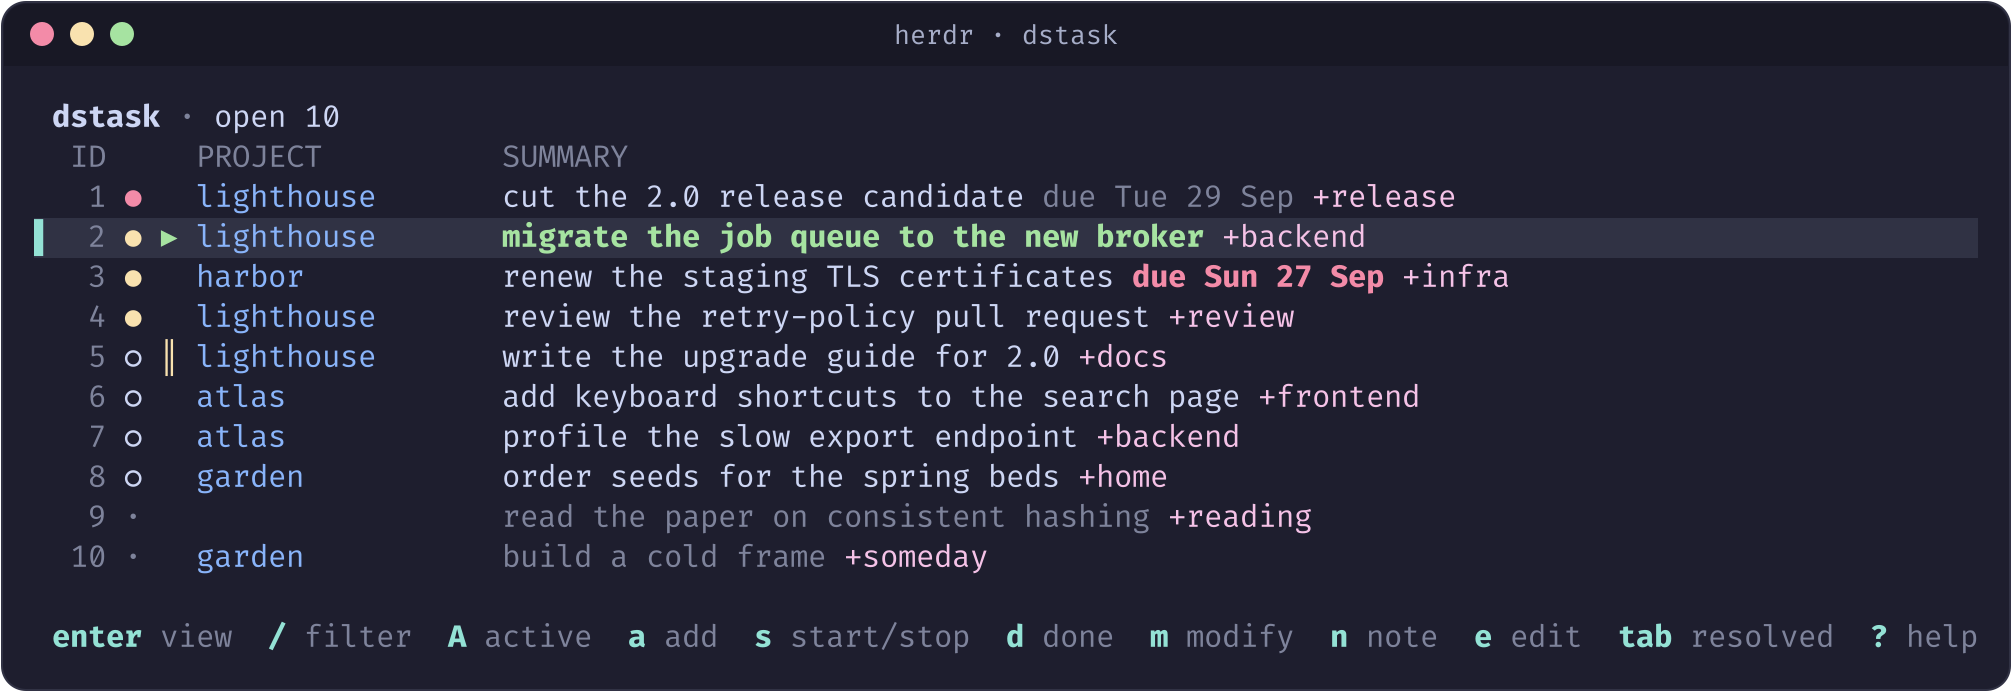
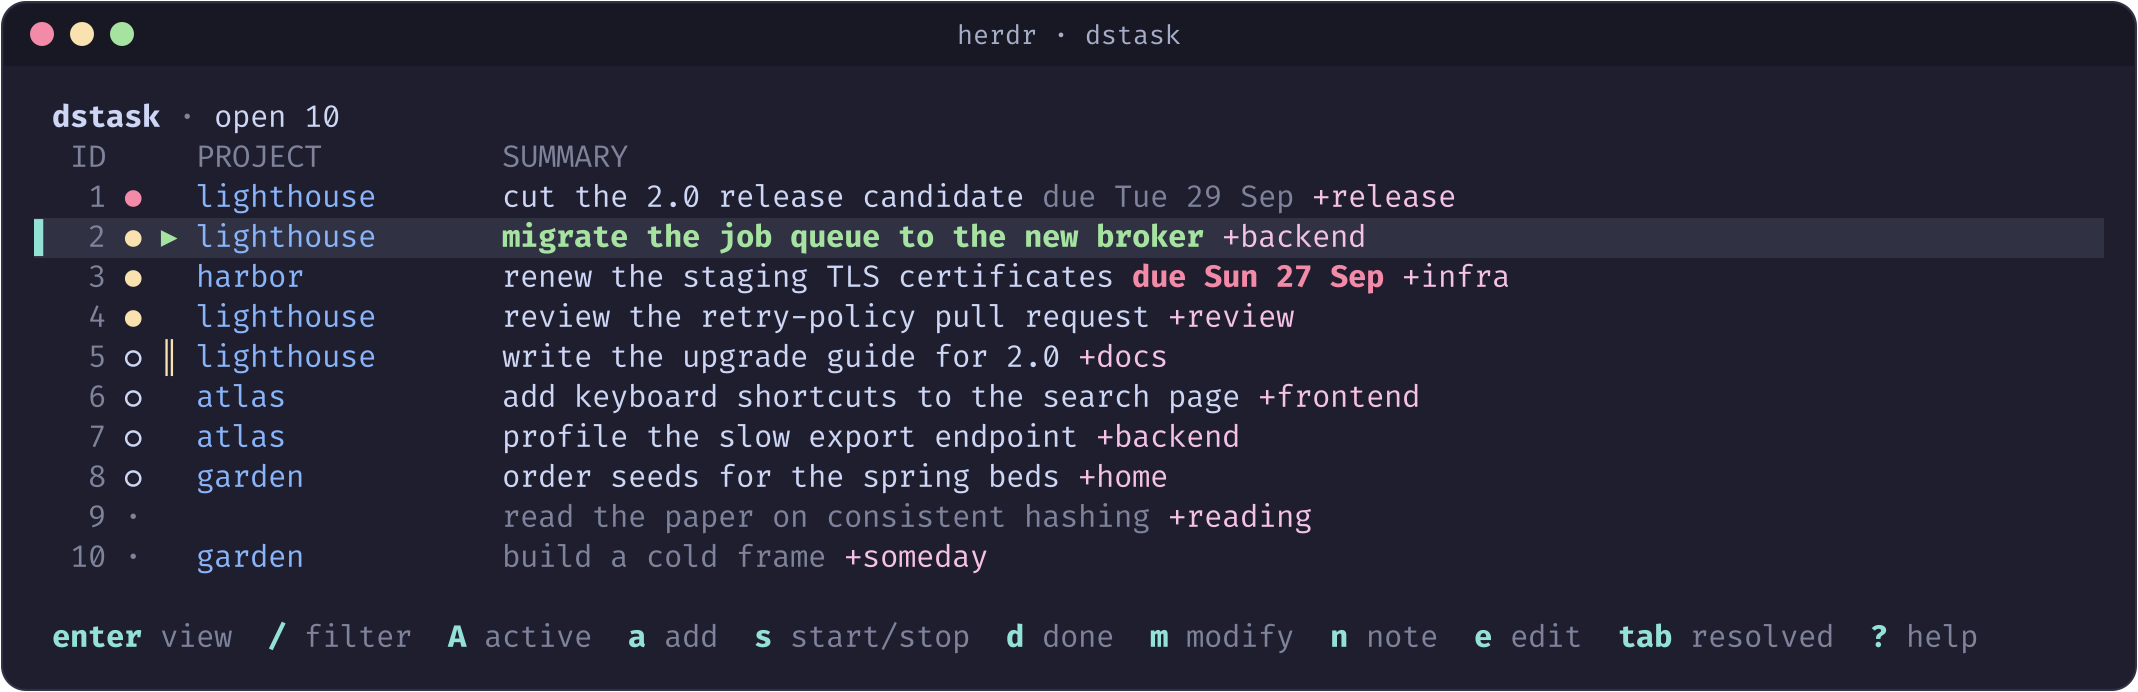
docs: add a screenshot of the detail view
make screenshot now also opens the active demo task and captures it as
docs/images/detail.png, which the README shows under the list. The demo
task has notes with a checklist, and both screenshots have the pane
width, so they have the same size.

Claude-Session: https://claude.ai/code/session_01A2mSsHRW8kFRtoxAN8xBux

diff --git a/scripts/screenshot.py b/scripts/screenshot.py
@@ -9,9 +9,12 @@ script only has to paint each cell at its grid position.
 ANSI palette colors are drawn with Catppuccin Mocha, Herdr's default theme,
 because the plugin uses palette indexes and the terminal theme decides them.
 
-Usage: screenshot.py <capture.ansi> <out-dir>
-Writes <out-dir>/screenshot.svg and <out-dir>/social-preview.svg. Convert them
-with rsvg-convert, as `make screenshot` does.
+Usage: screenshot.py <capture.ansi> <out-dir> <name> [--social] [--cols N]
+Writes <out-dir>/<name>.svg, and with --social also
+<out-dir>/social-preview.svg. Convert them with rsvg-convert, as
+`make screenshot` does. --cols sets the screen width. Pass the pane width, so
+that every image of one run has the same size; without it the width is the
+longest line.
 """
 
 import html
@@ -127,6 +130,12 @@ def terminal(rows, cols, x0, y0):
     """The SVG elements that paint the rows inside a window at x0, y0."""
     out = []
     for r, cells in enumerate(rows):
+        # The capture comes back a few cells short of the pane on a row that
+        # ends in colored blanks, but the UI writes the selection background
+        # across the full width (a UI test asserts it). Extend such a row, so
+        # the highlight reaches the edge as it does on screen.
+        if cells and cells[-1][2] and cells[-1][0] == " ":
+            cells = cells + [cells[-1]] * (cols - len(cells))
         y = y0 + r * CELL_H
         # Backgrounds first, in runs, so the text sits on top.
         c = 0
@@ -188,15 +197,21 @@ def svg(width, height, body, bg=None):
 
 
 def main():
-    capture, out = sys.argv[1], sys.argv[2]
+    capture, out, name = sys.argv[1], sys.argv[2], sys.argv[3]
+    flags = sys.argv[4:]
+    social = "--social" in flags
     with open(capture, encoding="utf-8") as f:
         rows = crop([parse(line.rstrip("\n")) for line in f])
     cols = max(len("".join(c[0] for c in r).rstrip()) for r in rows)
+    if "--cols" in flags:
+        cols = int(flags[flags.index("--cols") + 1])
 
-    # The README screenshot: the window alone on a transparent canvas.
+    # A README screenshot: the window alone on a transparent canvas.
     parts, w, h = window(rows, cols, 1, 1, "herdr · dstask")
-    with open(out + "/screenshot.svg", "w", encoding="utf-8") as f:
+    with open(out + "/" + name + ".svg", "w", encoding="utf-8") as f:
         f.write(svg(int(w) + 2, int(h) + 2, parts))
+    if not social:
+        return
 
     # The social preview: GitHub's 1280x640, with the name above the window.
     W, H = 1280, 640

diff --git a/tools/demofixture/main.go b/tools/demofixture/main.go
@@ -12,6 +12,7 @@ import (
 	"fmt"
 	"os"
 	"os/exec"
+	"strings"
 
 	"github.com/cgardner/herdr-dstask/internal/store"
 )
@@ -55,7 +56,16 @@ func main() {
 	fail(s.Start(2))
 	fail(s.Start(5))
 	fail(s.Stop(5))
-	fail(s.Note(2, "Drain the old queue before the cut-over, then flip the feature flag."))
+	// Notes for the detail screenshot: prose and a checklist, as real notes
+	// often have.
+	fail(s.Note(2, strings.Join([]string{
+		"Drain the old queue before the cut-over, then flip the feature flag.",
+		"",
+		"- [x] mirror traffic to the new broker",
+		"- [x] compare delivery latency for a week",
+		"- [ ] drain the old queue",
+		"- [ ] remove the old client library",
+	}, "\n")))
 }
 
 func fail(err error) {

diff --git a/README.md b/README.md
@@ -11,6 +11,8 @@ CLI uses.
 
 ![The task list, showing invented tasks](docs/images/screenshot.png)
 
+![The detail view of one task, with its notes](docs/images/detail.png)
+
 ## Install
 
 ```sh
